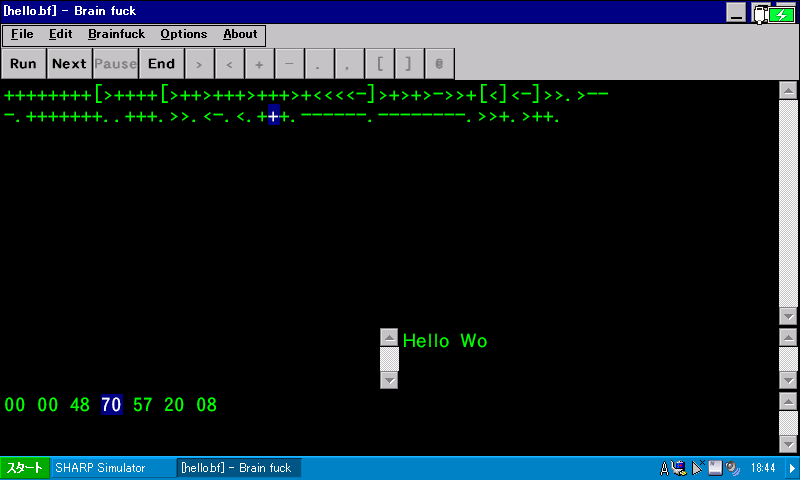
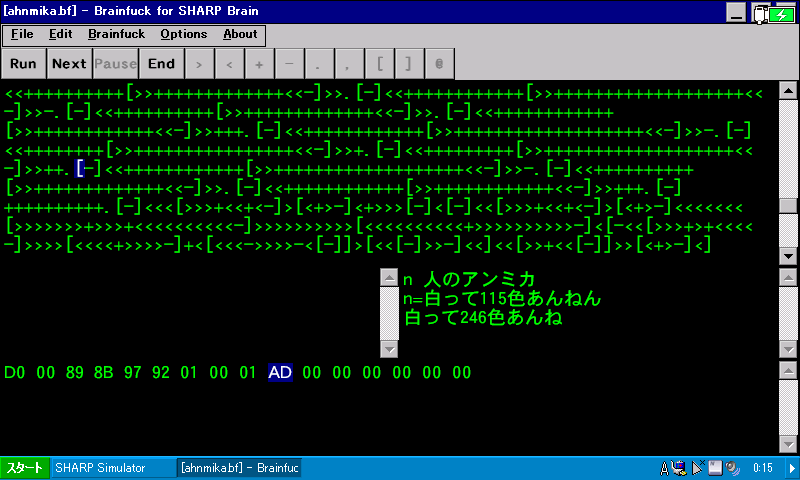
Update readme and app name

diff --git a/resource.h b/resource.h
@@ -1,18 +1,18 @@
-#ifndef DEF_H_
-#define DEF_H_
+#ifndef RESOURCE_H_
+#define RESOURCE_H_
 
-#define APP_NAME L"Brain fuck"
-#define APP_DESCRIPTION L"Brainfuck interpreter for SHARP Brain."
+#define APP_NAME L"Brainfuck for SHARP Brain"
+#define APP_DESCRIPTION L"Brainfuck interpreter and debugger for SHARP Brain."
 #define APP_COPYRIGHT L"(C) 2022-2023 watamario15 (https://github.com/watamario15)"
-#define APP_VERSION L"1.0"
+#define APP_VERSION L"1.0 RC3"
 
 #define VER_STR_COMPANYNAME "watamario15"
-#define VER_STR_DESCRIPTION "Brainfuck interpreter for SHARP Brain."
-#define VER_STR_FILEVERSION 1, 0, 0, 0
-#define VER_STR_APPNAME "Brain fuck"
+#define VER_STR_DESCRIPTION "Brainfuck interpreter and debugger for SHARP Brain."
+#define VER_STR_FILEVERSION 0, 0, 0, 3
+#define VER_STR_APPNAME "Brainfuck for SHARP Brain"
 #define VER_STR_COPYRIGHT "(C) 2022-2023 watamario15 (https://github.com/watamario15)"
-#define VER_STR_ORIGINALFILENAME "Brainfuck.exe"
-#define VER_STR_VERSION "1.0"
+#define VER_STR_ORIGINALFILENAME "brainfuck-<platform>-<architecture>.exe"
+#define VER_STR_VERSION "1.0 RC3"
 
 #define IDC_EDITOR 0
 #define IDC_INPUT 1

diff --git a/readme.md b/readme.md
@@ -1,8 +1,10 @@
 # Brainfuck for SHARP Brain
 
+**Brain**fuck interpreter and debugger for [SHARP **Brain**](https://jp.sharp/edictionary/). This interpreter is "nice" in terms of [this specification](http://www.muppetlabs.com/~breadbox/bf/standards.html).
+
 ![](running.png)
 
-**Brainfuck** interpreter and debugger for [SHARP **Brain**](https://jp.sharp/edictionary/). This interpreter is "nice" in terms of [this specification](http://www.muppetlabs.com/~breadbox/bf/standards.html).
+The Brainfuck program executed in this demo image is taken from [ahnmika-white](https://github.com/yude/ahnmika-white/blob/main/main.bf), which is licensed under the [MIT License](https://github.com/yude/ahnmika-white/blob/main/LICENSE) by [@yude](https://github.com/yude).
 
 ## Specs
 
@@ -19,36 +21,61 @@ Default options are shown in **bold** typeface.
 
 "error" options are useful for debugging and portability check.
 
+## Features
+
+- **Behavior Adjustment**
+  - **Run any Brainfuck programs.** You can tune all behaviors listed above.
+- **Real Time Debugging**
+  - Your program doesn't work as expected? It's tough to see how the program runs? This interpreter shows **the next instruction to execute and memory internals**. Also, it can highlight **where the memory pointer is**. You can also do a **step execution** or enable **breakpoint instruction (`@`)** to further inspect what's going on.
+- **Speed Adjustment**
+  - You can select either **100 ms, 10 ms, 1 ms, or fastest** speed to run a program. You can also disable the Real Time Debugging to further speedup the execution.
+- **Light/Dark Theme**
+  - Tired to code in a bright screen? The dark theme isn't for you? This interpreter supports **both the light and dark themes**.
+- **Per Monitor High DPI Aware V2**
+  - Your display is a high DPI one? You have muitiple display devices that have different DPIs each other? This interpreter **smartly adjusts its size** according to the DPI setting for the display device where the interpreter is on and perfectly works on these environment **with no blur**.
+- **Switch Layout**
+  - Your device is wide? Or rather portrait? This interpreter offers you **two layouts** to support both screens.
+- **Lightweight and Runs on Old Devices**
+  - For Windows CE, it's only **about 50 KB** and requires only **about 1 MB of RAM**. The Windows PC version is also tiny and runs perfectly even on **Windows XP**.
+- **Targets Broad CPU Architectures**
+  - For Windows CE, you can get **Arm, MIPS, SH3, SH4, and x86** versions including variations. Even for Windows PC, you can get **ARM32, ARM64, x86, and AMD64** versions.
+- ...and more!
+
 ## System Requirements
 
-- Windows XP or later
-- Windows CE 4.0 or later
-  - Tested on SHARP Brain PW-SH1, which is Windows Embedded CE 6.0 (Armv5TEJ)
+- **Windows XP or later**
+  - Tested on Windows XP and 11.
+- **Windows CE 4.0 or later**
+  - Tested on SHARP Brain PW-SH1, which is Windows Embedded CE 6.0 (Armv5TEJ).
 
-Might also work on older OSes than these, but these are the ones I'm confident in some degree.
+Might also work on older OSes than these, but listed are the ones I'm confident in some degree.
 
 ## How To Use
 
-Download appropriate one from [here](https://github.com/watamario15/brainfuck-sharp-brain/releases) and run it on your device. No installation needed.
+Download appropriate one from **[Releases](https://github.com/watamario15/brainfuck-sharp-brain/releases)** and run it on your device. No installation needed. For SHARP Brain, use an **Armv4i** version and follow the usual procedure, which is explained [here (Japanese)](https://brain.fandom.com/ja/wiki/%E3%82%A2%E3%83%97%E3%83%AA%E3%81%AE%E8%B5%B7%E5%8B%95%E6%96%B9%E6%B3%95) and [here (English)](https://www.hpcfactor.com/reviews/editorial/ceopener-sharp-brain/).
+
+You can also remove this app by just deleting it. It doesn't save anything to outside.
 
 ## How To Build
 
-This project supports various build tools.
+You can build this app in various ways.
 
-### Windows PC
+### Build for Windows PC
 
-- `win.sh`: Builds binaries using MinGW_w64. Requires MinGW_w64 to be accessible from PATH.
+- `win.sh`: Builds binaries using [MinGW_w64](https://www.mingw-w64.org/). Requires MinGW_w64 to be accessible from PATH.
   - Requires POSIX compliant environment.
-- `win.bat`: Batchfile version of `win.sh`. Use for Windows build of MinGW_w64.
-- `vs2022proj-pc/`: VS2022 solution and project. Just open the `.sln` file and build, with the C++ compilation support installed.
+- `win.bat`: Batchfile version of `win.sh`. Use this for Windows build of MinGW_w64.
+- `vs2022proj-pc/`: [Visual Studio 2022](https://visualstudio.microsoft.com/vs/) (not VSCode) solution and project. The free Community edition is enough. Just open the `.sln` file and build, with the C++ Desktop Development installed.
   - Requires Windows machine.
 
-### Windows CE (SHARP Brain)
+### Build for Windows CE (including SHARP Brain)
 
-- `brain.sh`: Builds binaries using CeGCC. Requires CeGCC to be accessible from PATH.
+You probably want to read either [here (Japanese)](https://brain.fandom.com/ja/wiki/%E9%96%8B%E7%99%BA%E7%92%B0%E5%A2%83%E3%83%BBSDK) or [here (English)](https://www.hpcfactor.com/developer/) to set up your development environment first.
+
+- `brain.sh`: Builds binaries using [CeGCC](https://max.kellermann.name/projects/cegcc/). Requires CeGCC to be accessible from PATH.
   - Requires POSIX compliant environment.
-- `brain.bat`: Batchfile version of `brain.sh`. Use for Windows build of CeGCC.
-- `vs2005proj/` and `vs2008proj/`: VS2005/2008 solution and project. Just open the `.sln` file and build, with the mobile C++ compilation support installed.
-  - Requires Windows machine.
+- `brain.bat`: Batchfile version of `brain.sh`. Use this for Windows build of CeGCC.
 - `evc4proj/`: eMbedded Visual C++ 4.0 project. Just open the `.vcw` file and build.
+  - Requires Windows machine.
+- `vs2005proj/` and `vs2008proj/`: Visual Studio 2005 and 2008 solution and project. Just open the `.sln` file and build, with the Smart Device Programmability installed.
   - Requires Windows machine.
